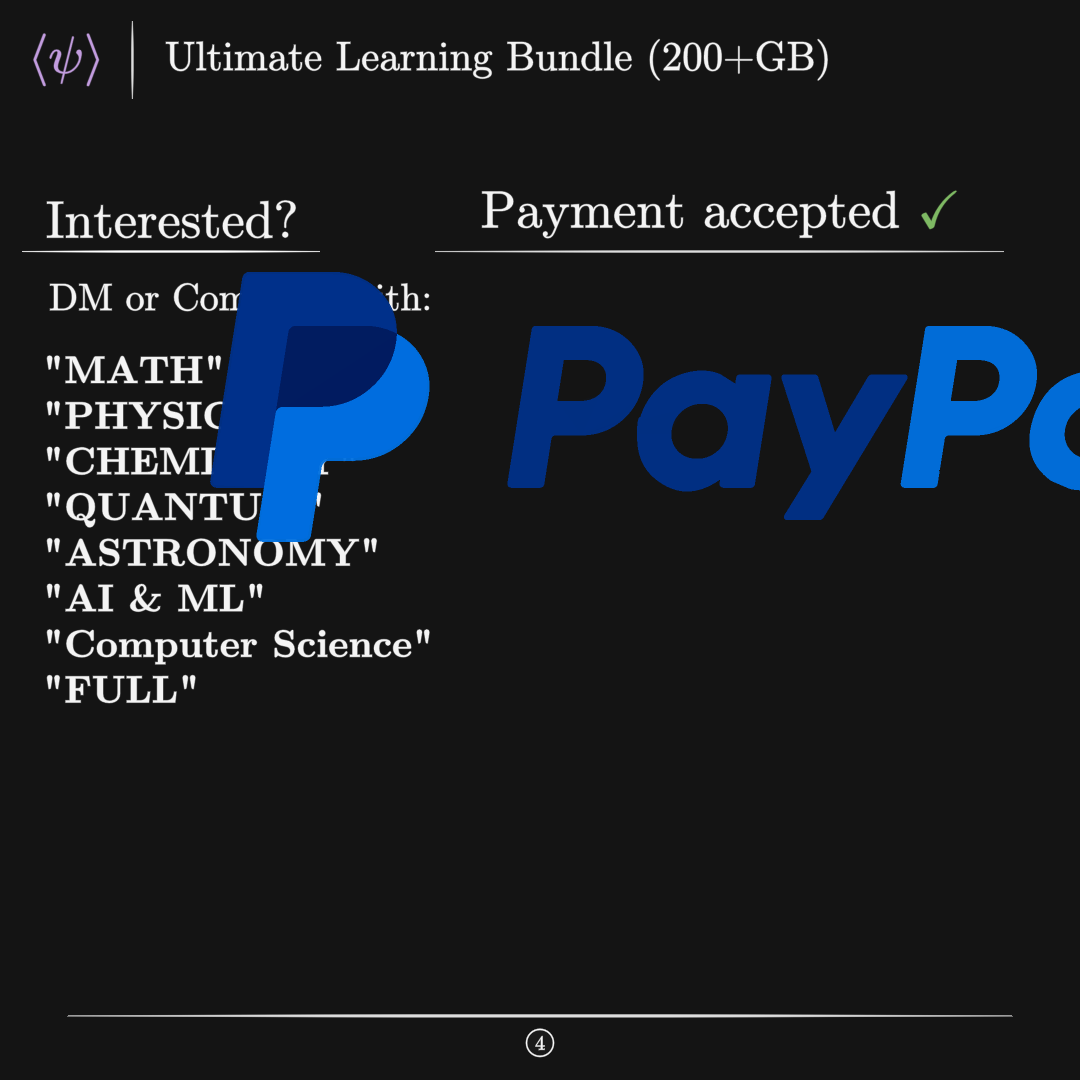
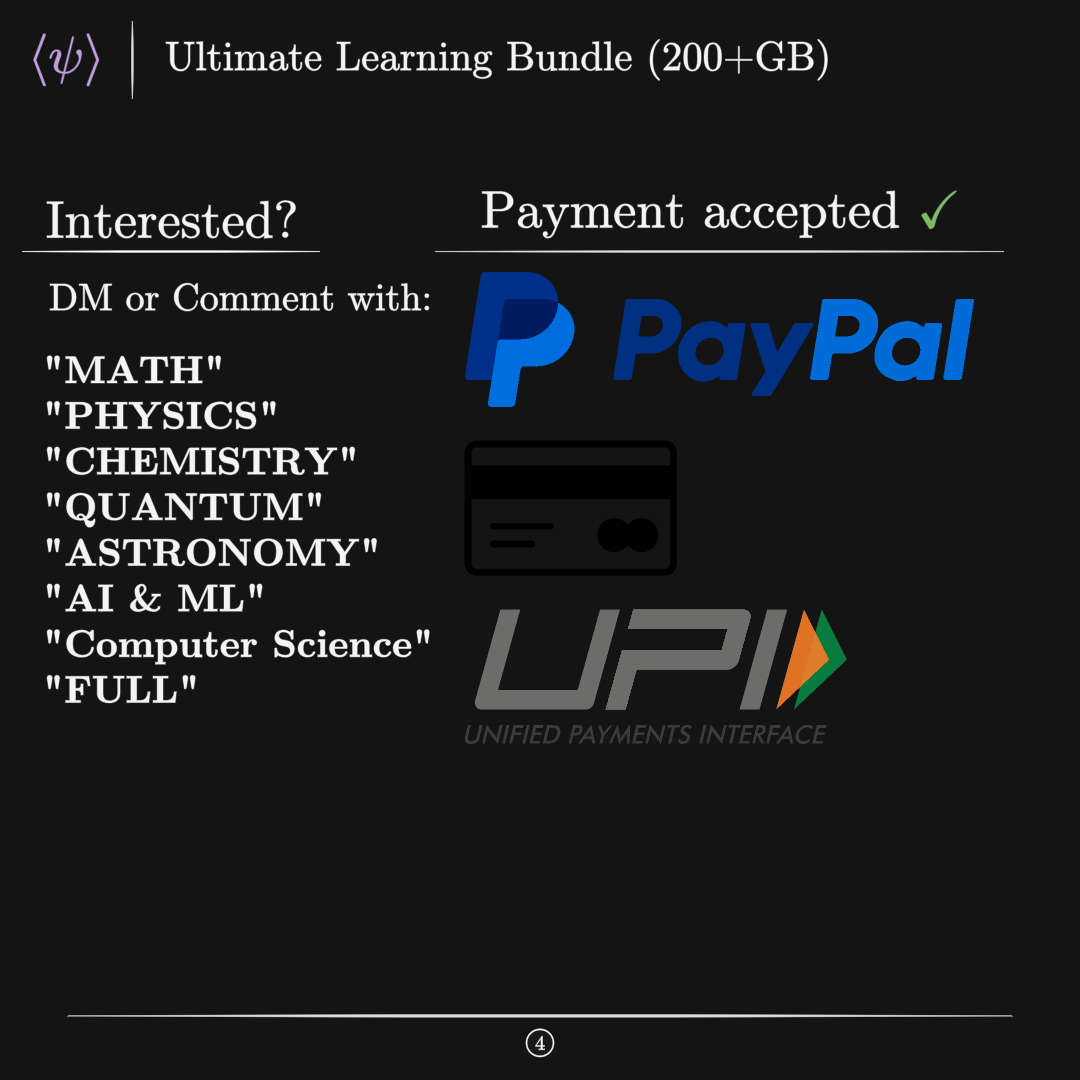
f

Changed region(s): [[0.4278, 0.2444, 1.0, 0.4889], [0.4278, 0.55, 0.7944, 0.7028], [0.1833, 0.2444, 0.3972, 0.5194]]

diff --git a/test.py b/test.py
@@ -183,7 +183,11 @@ class Payment(PaidTemplate):
         self.add(payment, payment_un)
 
         svgs = VGroup(
-            SVGMobject("paypal.svg")
+            SVGMobject("paypal.svg"),
+            SVGMobject("debit.svg"),
+            SVGMobject("upi.svg")
         )
+        svgs.scale(0.5)
+        svgs.arrange(DOWN, buff=MED_SMALL_BUFF, aligned_edge=LEFT)
         svgs.next_to(payment, DOWN)
         self.add(svgs)
